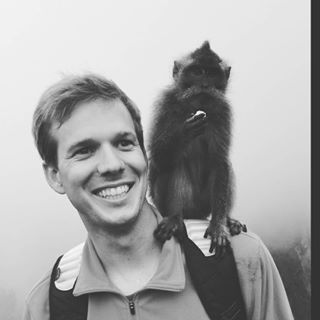
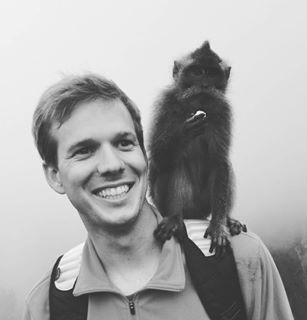
updates

diff --git a/_layouts/default.html b/_layouts/default.html
@@ -30,7 +30,7 @@
     <div class="wrapper-masthead">
       <div class="container">
         <header class="masthead clearfix">
-          <a href="{{ site.baseurl }}/" class="site-avatar"><img src="{{ site.avatar }}" /></a>
+          <a href="{{ site.baseurl }}/" class="site-avatar"><img src="/images/profpic.jpg" /></a>
 
           <div class="site-info">
             <h1 class="site-name"><a href="{{ site.baseurl }}/">{{ site.name }}</a></h1>
